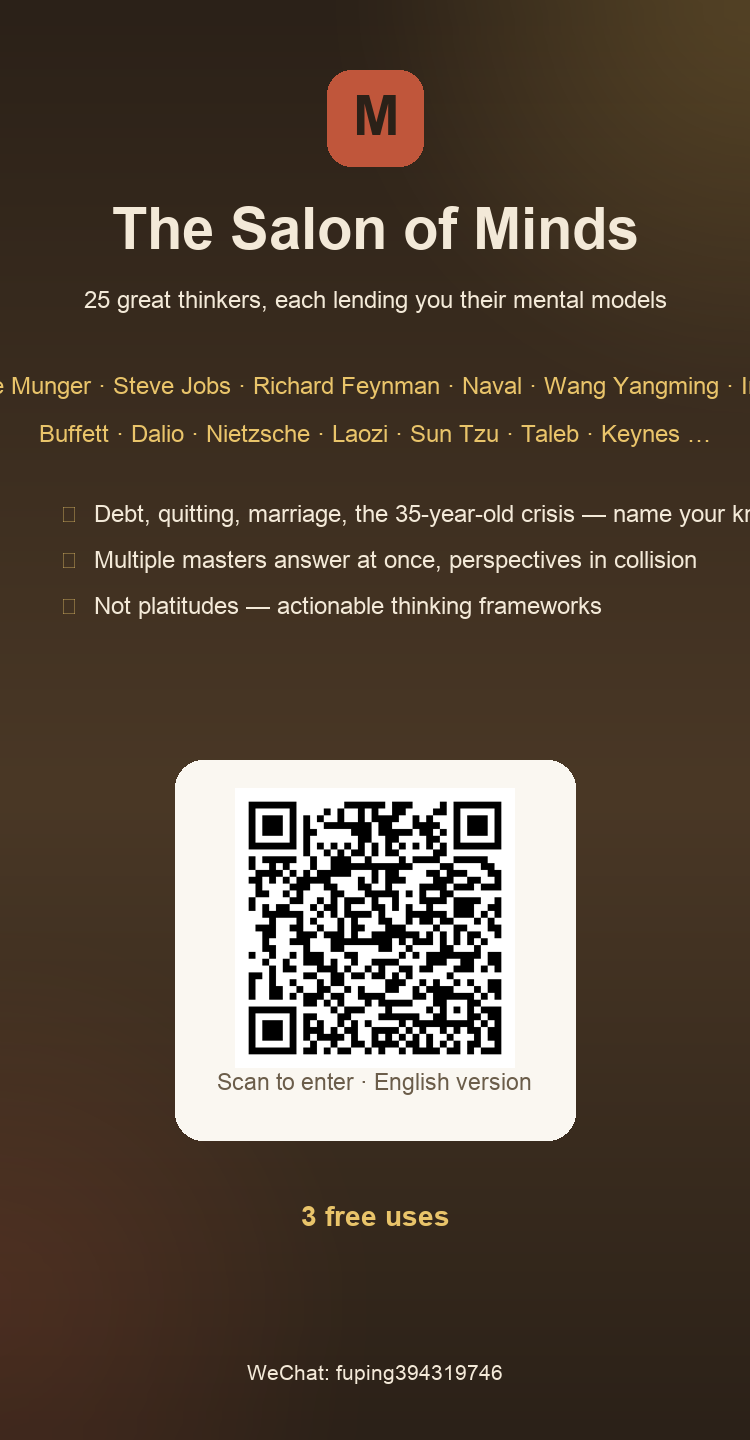
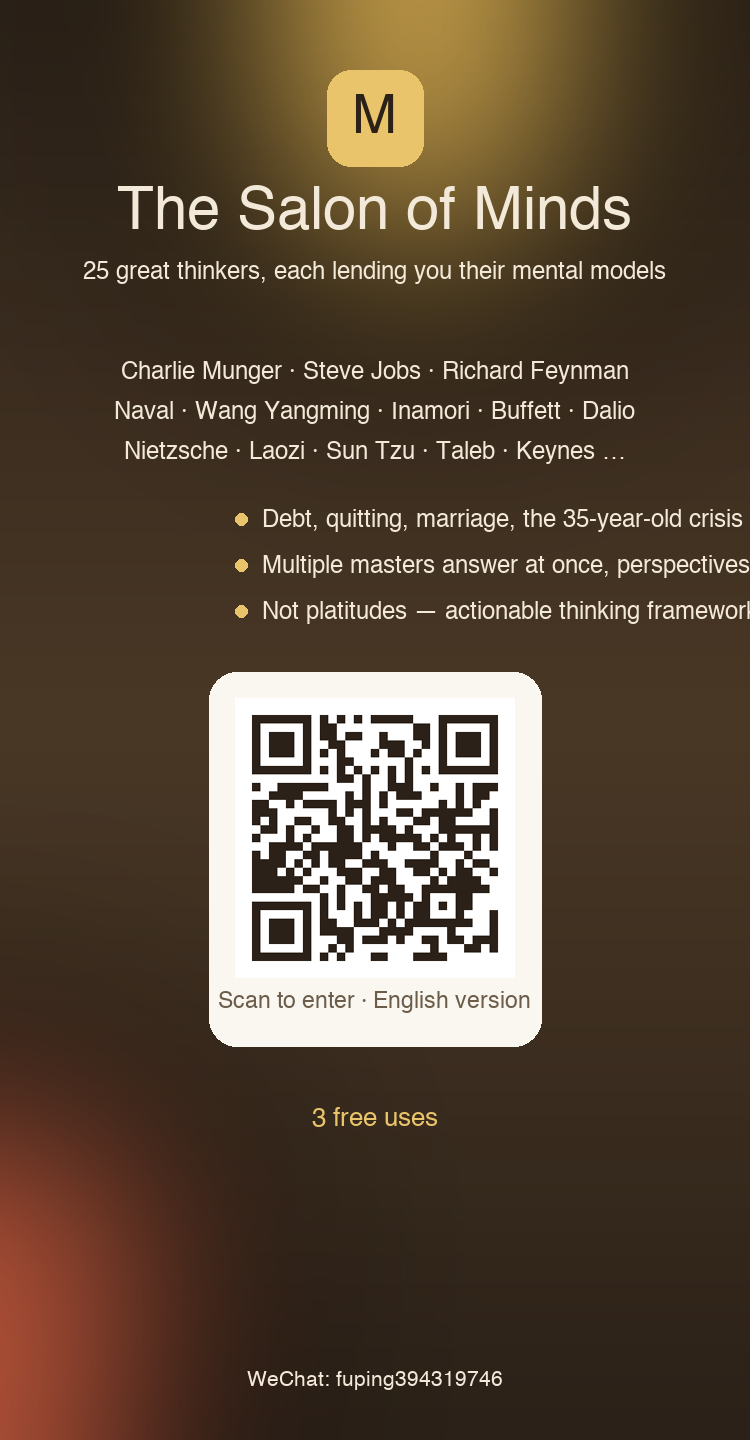
fix: 英文海报改为内嵌二维码(HTML) + 可直接发的 PNG，绕过图片缺失/旧二维码

diff --git a/share/en-poster.html b/share/en-poster.html
@@ -1,72 +1,49 @@
 <!DOCTYPE html>
-<html lang="en">
-<head>
-<meta charset="UTF-8">
-<style>
-  * { margin: 0; padding: 0; box-sizing: border-box; }
-  body { font-family: -apple-system, "Helvetica Neue", Arial, sans-serif; background: #2b2118; }
-  #poster {
-    width: 750px; height: 1440px; position: relative; overflow: hidden;
-    background: linear-gradient(160deg, #2b2118 0%, #4a3826 55%, #2b2118 100%);
-    color: #f3e9d8; display: flex; flex-direction: column; align-items: center;
-    padding: 70px 60px 0;
-  }
-  #poster::before {
-    content: ""; position: absolute; right: -120px; top: -120px; width: 420px; height: 420px;
-    background: radial-gradient(circle, rgba(201,161,74,.28), transparent 70%); border-radius: 50%;
-  }
-  #poster::after {
-    content: ""; position: absolute; left: -140px; bottom: 140px; width: 380px; height: 380px;
-    background: radial-gradient(circle, rgba(192,86,59,.18), transparent 70%); border-radius: 50%;
-  }
-  .logo {
-    width: 96px; height: 96px; border-radius: 24px; display: flex; align-items: center; justify-content: center;
-    background: linear-gradient(135deg, #e9c46a, #c0563b); color: #2b2118;
-    font-size: 54px; font-weight: 800; box-shadow: 0 12px 32px rgba(0,0,0,.35); z-index: 1;
-  }
-  h1 { font-size: 60px; letter-spacing: 2px; margin-top: 36px; font-weight: 700; z-index: 1; text-align: center; }
-  .tagline { font-size: 24px; opacity: .85; margin-top: 20px; letter-spacing: 1px; z-index: 1; white-space: nowrap; }
-  .masters {
-    margin-top: 40px; font-size: 24px; line-height: 2; text-align: center; opacity: .92; z-index: 1;
-  }
-  .masters b { color: #e9c46a; font-weight: 700; }
-  .points { margin-top: 32px; z-index: 1; }
-  .points div {
-    font-size: 24px; margin-bottom: 14px; padding-left: 34px; position: relative; opacity: .95;
-  }
-  .points div::before { content: "✦"; position: absolute; left: 0; color: #e9c46a; }
-  .qr-card {
-    margin-top: 40px; background: #faf7f1; border-radius: 28px; padding: 26px;
-    box-shadow: 0 18px 48px rgba(0,0,0,.4); text-align: center; z-index: 1;
-  }
-  .qr-card img { width: 280px; height: 280px; display: block; }
-  .qr-card p { color: #6b5d4a; font-size: 23px; margin-top: 12px; font-weight: 600; }
-  .free {
-    margin-top: 26px; font-size: 26px; color: #e9c46a; letter-spacing: 2px; font-weight: 700; z-index: 1;
-  }
-  .footer { margin-top: auto; padding: 24px 0 46px; font-size: 21px; opacity: .6; letter-spacing: 1px; z-index: 1; }
-</style>
-</head>
-<body>
-<div id="poster">
-  <div class="logo">M</div>
+<html lang=en><head><meta charset=UTF-8><style>
+* { margin:0; padding:0; box-sizing:border-box; }
+body { font-family:-apple-system,"Helvetica Neue",Arial,sans-serif; background:#2b2118; }
+#poster { width:750px; height:1440px; position:relative; overflow:hidden;
+  background:linear-gradient(160deg,#2b2118 0%,#4a3826 55%,#2b2118 100%); color:#f3e9d8;
+  display:flex; flex-direction:column; align-items:center; padding:70px 60px 0; }
+#poster::before { content:""; position:absolute; right:-120px; top:-120px; width:420px; height:420px;
+  background:radial-gradient(circle,rgba(201,161,74,.28),transparent 70%); border-radius:50%; }
+#poster::after { content:""; position:absolute; left:-140px; bottom:140px; width:380px; height:380px;
+  background:radial-gradient(circle,rgba(192,86,59,.18),transparent 70%); border-radius:50%; }
+.logo { width:96px; height:96px; border-radius:24px; display:flex; align-items:center; justify-content:center;
+  background:linear-gradient(135deg,#e9c46a,#c0563b); color:#2b2118; font-size:54px; font-weight:800;
+  box-shadow:0 12px 32px rgba(0,0,0,.35); z-index:1; }
+h1 { font-size:60px; letter-spacing:2px; margin-top:36px; font-weight:700; z-index:1; text-align:center; }
+.tagline { font-size:24px; opacity:.85; margin-top:20px; letter-spacing:1px; z-index:1; white-space:nowrap; }
+.masters { margin-top:40px; font-size:24px; line-height:2; text-align:center; opacity:.92; z-index:1; }
+.masters b { color:#e9c46a; font-weight:700; }
+.points { margin-top:32px; z-index:1; }
+.points div { font-size:24px; margin-bottom:14px; padding-left:34px; position:relative; opacity:.95; }
+.points div::before { content:"✦"; position:absolute; left:0; color:#e9c46a; }
+.qr-card { margin-top:40px; background:#faf7f1; border-radius:28px; padding:26px;
+  box-shadow:0 18px 48px rgba(0,0,0,.4); text-align:center; z-index:1; }
+.qr-card img { width:280px; height:280px; display:block; }
+.qr-card p { color:#6b5d4a; font-size:23px; margin-top:12px; font-weight:600; }
+.free { margin-top:26px; font-size:26px; color:#e9c46a; letter-spacing:2px; font-weight:700; z-index:1; }
+.footer { margin-top:auto; padding:24px 0 46px; font-size:21px; opacity:.6; letter-spacing:1px; z-index:1; }
+</style></head><body>
+<div id=poster>
+  <div class=logo>M</div>
   <h1>The Salon of Minds</h1>
-  <div class="tagline">25 great thinkers, each lending you their mental models</div>
-  <div class="masters">
+  <div class=tagline>25 great thinkers, each lending you their mental models</div>
+  <div class=masters>
     <b>Charlie Munger</b> · <b>Steve Jobs</b> · <b>Richard Feynman</b> · <b>Naval</b> · <b>Wang Yangming</b> · <b>Inamori</b><br>
     Buffett · Dalio · Nietzsche · Laozi · Sun Tzu · Taleb · Keynes …
   </div>
-  <div class="points">
+  <div class=points>
     <div>Debt, quitting, marriage, the 35-year-old crisis — name your knot</div>
     <div>Multiple masters answer at once, perspectives in collision</div>
     <div>Not platitudes — actionable thinking frameworks</div>
   </div>
-  <div class="qr-card">
-    <img src="en-link-qr.png" alt="qr">
+  <div class=qr-card>
[1 lines of base64/hex data omitted]
     <p>Scan to enter · English version</p>
   </div>
-  <div class="free">3 free uses</div>
-  <div class="footer">WeChat: fuping394319746</div>
+  <div class=free>3 free uses</div>
+  <div class=footer>WeChat: fuping394319746</div>
 </div>
-</body>
-</html>
+</body></html>
